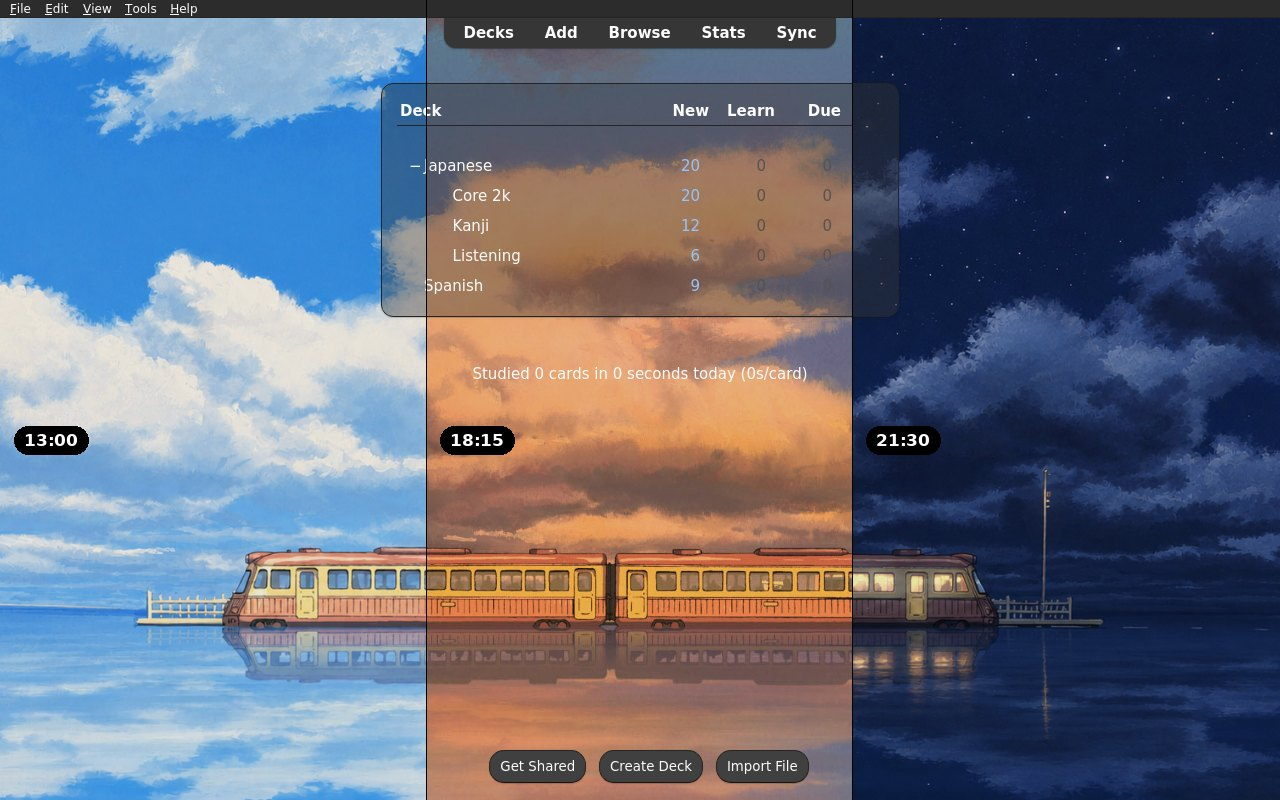
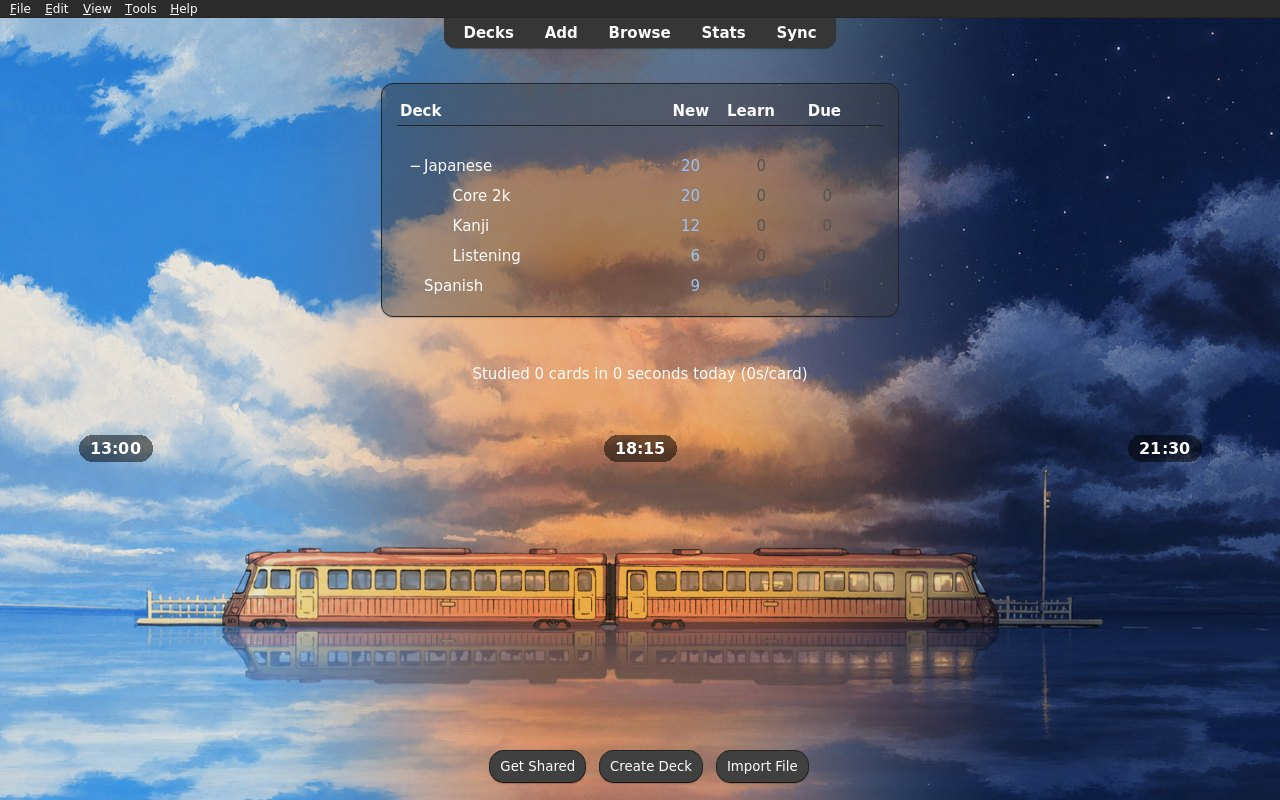
AnkiWeb listing: the times of day blend into each other, no hard lines

diff --git a/docs/ankiweb.md b/docs/ankiweb.md
@@ -48,7 +48,7 @@ blank lines. `{{version}}` and `{{release_url}}` are the release the helper atta
 ```markdown
 Background scenes for Anki's main window that follow the sun through the day, and can change once you're done studying.
 
-![Anki's deck list over a day-cycle scene at 13:00, 18:15 and 21:30](https://raw.githubusercontent.com/mcgrizzz/Keshiki/main/docs/images/main-through-the-day.jpg)
+![Anki's deck list over a day-cycle scene, blending from 13:00 through 18:15 to 21:30](https://raw.githubusercontent.com/mcgrizzz/Keshiki/main/docs/images/main-through-the-day.jpg)
 
 ### Features
 
